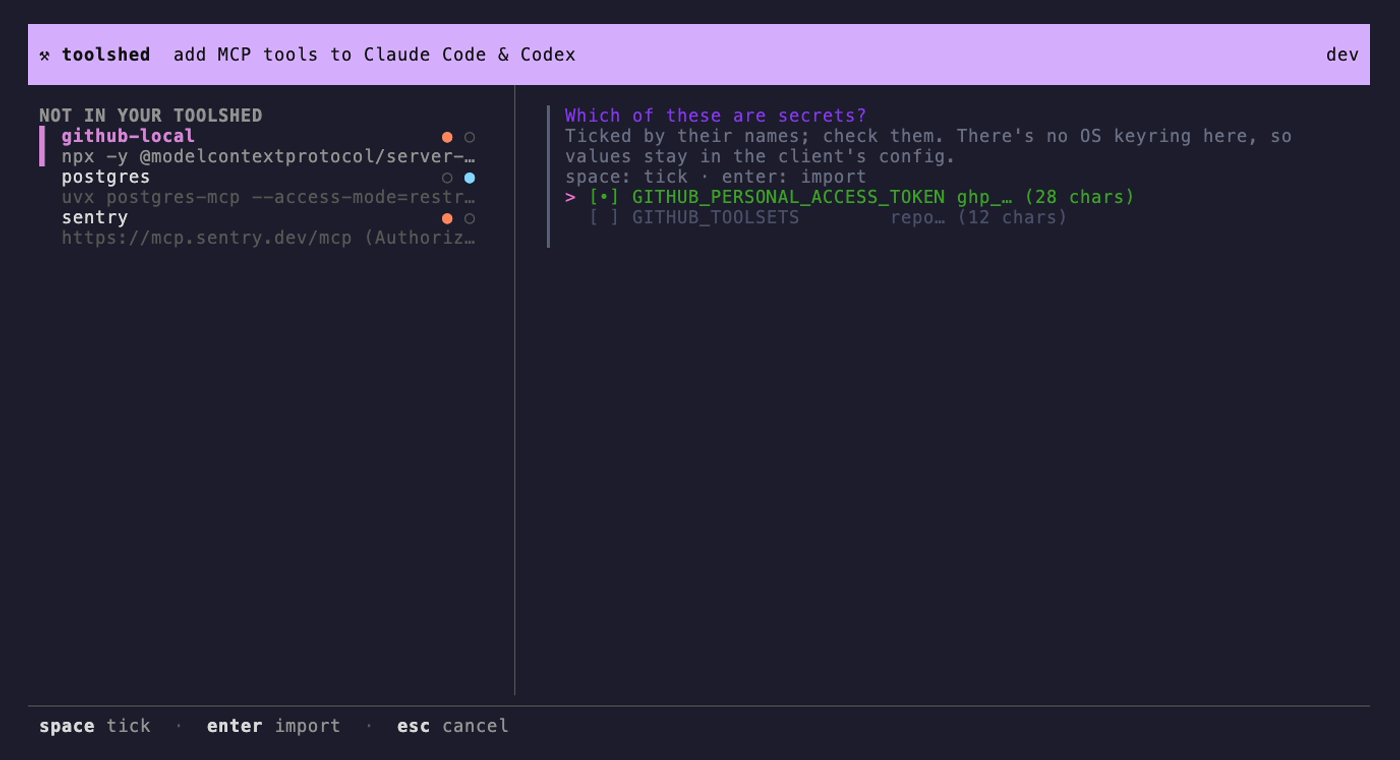
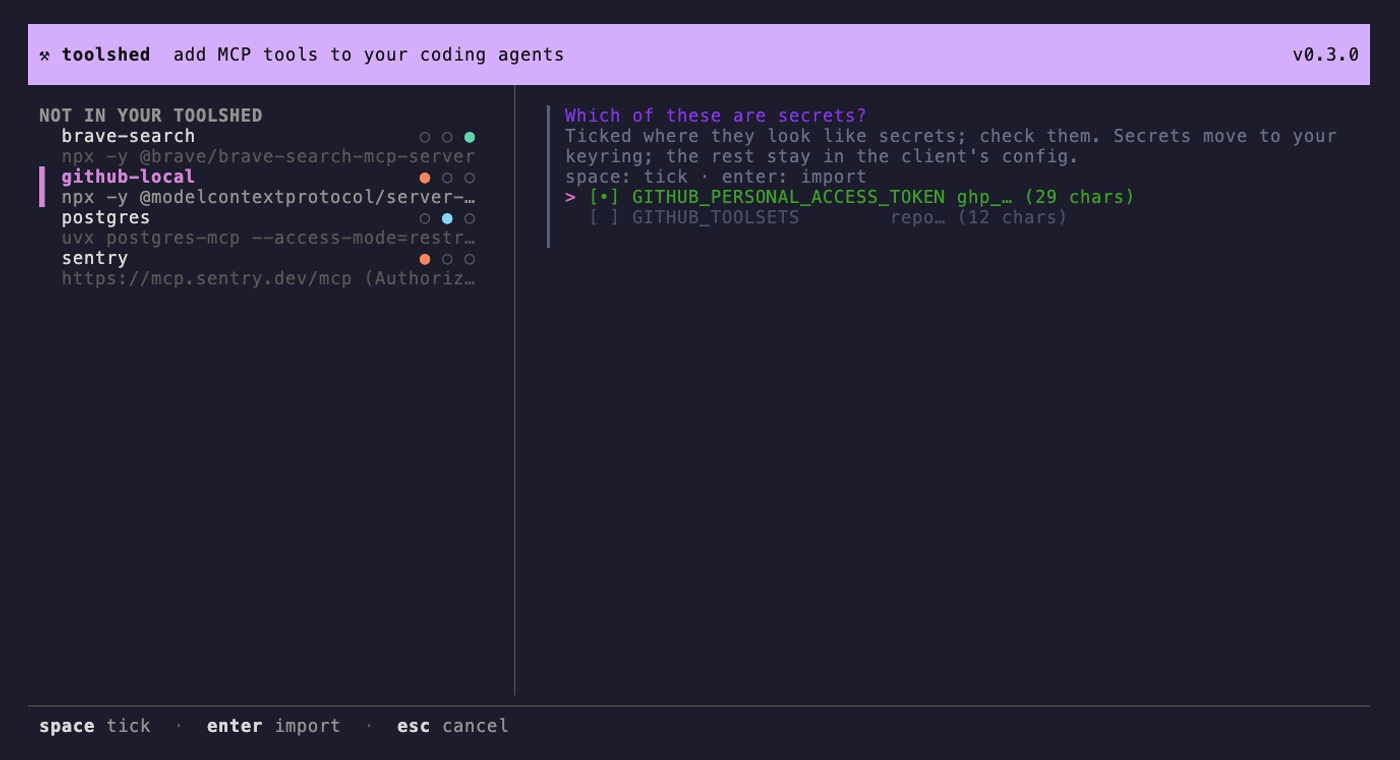
Re-record the demo and import screenshots for Antigravity and client choice
The GIF and both import screenshots predated Antigravity and the clients
key. The screenshots now come from a tape too (just screenshots), in a
throwaway HOME with the mock clients, and the secrets one is shown in the
import docs.

diff --git a/AGENTS.md b/AGENTS.md
@@ -81,7 +81,8 @@ gh api repos/bartdegoede/homebrew-tap/contents/Casks/toolshed.rb -q .path   # ta
 - Releases build with Go `stable`; `go.mod` (1.26) is the `go install` minimum.
   Don't raise it, or `examples/ping-mcp/go.mod`, without a reason.
 - A failed release: fix on `main`, then tag the next patch version.
-- Re-record `docs/demo.gif` (`just demo`) when the TUI changes visibly.
+- Re-record `docs/demo.gif` (`just demo`) and the import screenshots
+  (`just screenshots`) when the TUI changes visibly.
 
 ## Docs
 

diff --git a/docs/import.md b/docs/import.md
@@ -36,6 +36,8 @@ it runs, and its values masked. Press `enter`, tick which values are secrets
 
 ![The import screen](import.png)
 
+![Ticking which values are secrets](import-secrets.png)
+
 ## Details
 
 - Settings toolshed doesn't manage stay as they are: a Claude `timeout`, or
